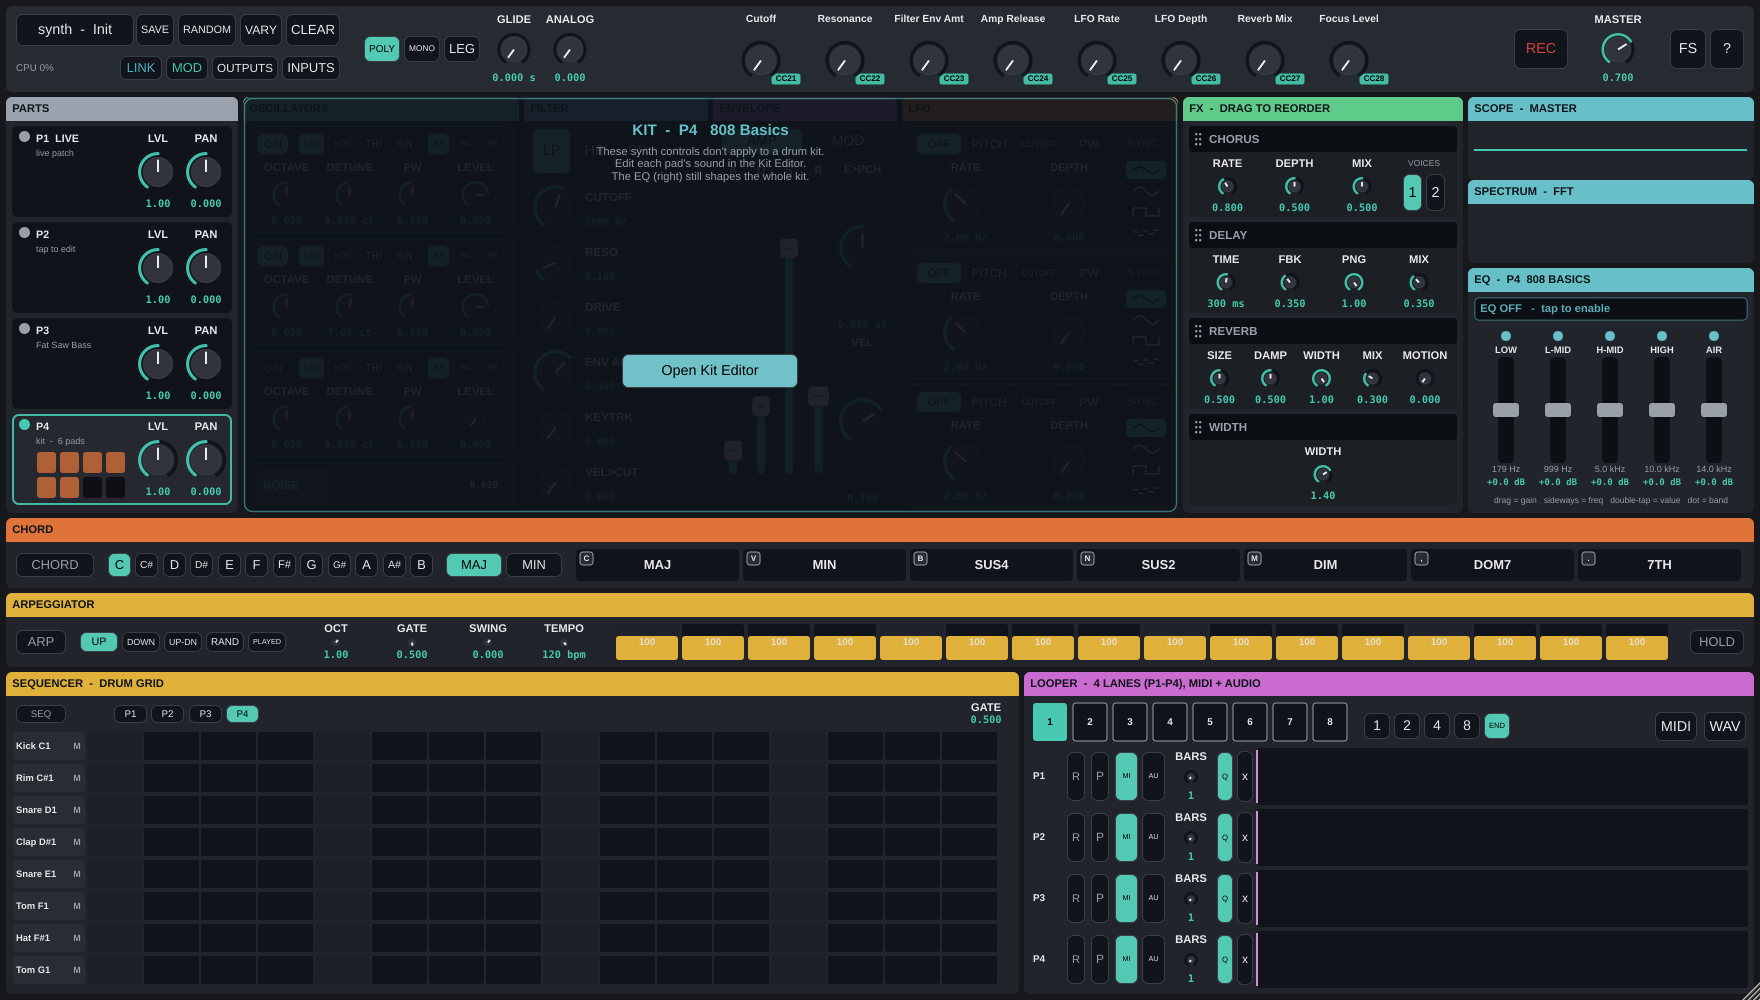
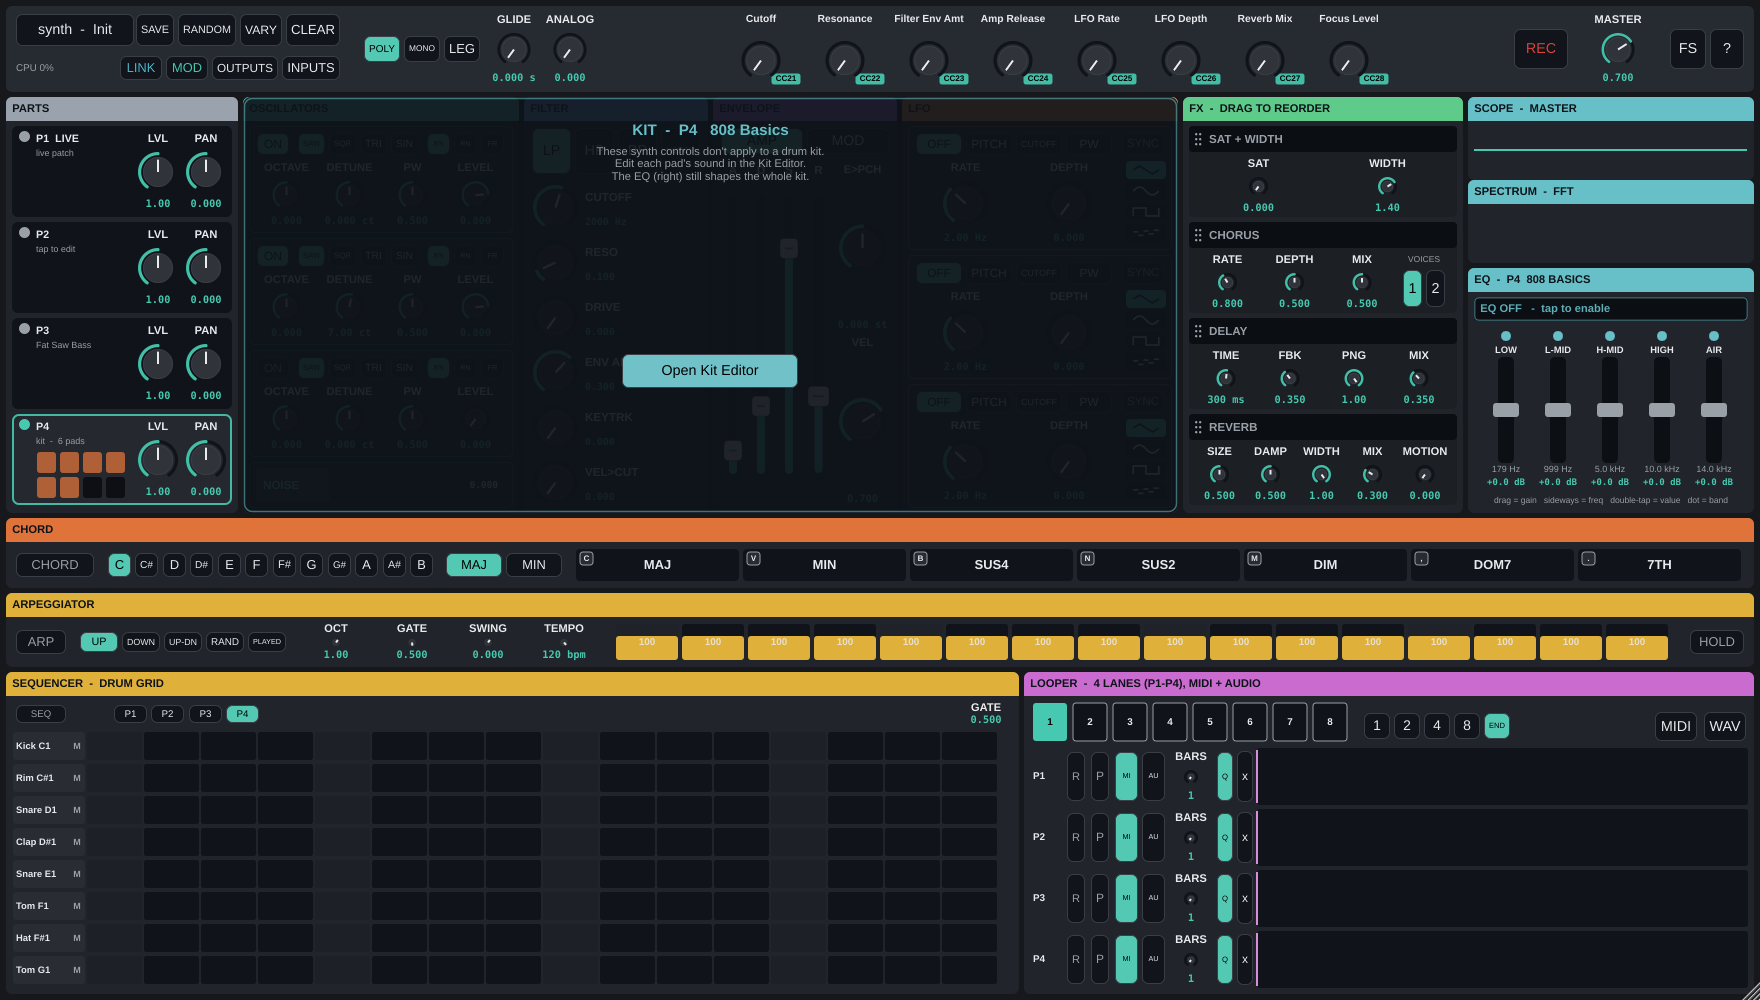
FX SAT (tube saturation) in the SAT+WIDTH block; WIDTH runs first by default
A distortion the user asked for, placed where it belongs. The WIDTH FX block gains
a SAT knob: an asymmetric tube-style waveshaper applied per channel BEFORE the
widening. The pre-bias into tanh makes the curve asymmetric -> EVEN harmonics (the
"tube" colour the symmetric filter DRIVE doesn't give; measured ~13% 2nd harmonic
at full drive), and a one-pole DC blocker removes the offset the asymmetry creates.
Named SAT (distinct from the filter panel's DRIVE, which is a separate in-loop
saturation); the block is relabelled "SAT + WIDTH".

Distortion belongs EARLY (drive the dry signal, not the reverb tail), so the WIDTH
block is now the FIRST default FX block: spatialize + saturate the dry signal, then
delay/reverb bloom over the wide field. The chain stays drag-reorderable, so the old
order is one drag away.

- DSP (StereoWidth.h): saturate() = asymmetric satTanh (cheap clamped Pade[3/2], no
  libm in the loop) + DC blocker, crossfaded in by a smoothed smSat. sat == 0 is the
  exact original signal (goldens bit-identical); engaging crossfades click-free.
- Param fx_sat (0..1, default 0); a full block-tier mod destination (Saturation) so
  an LFO can lean on the saturation; snapshot + bake + mod() wired.
- Default order: kDefaultOrderPacked + Init + the two factory presets that declared
  the old default [0,1,2,3] now use WIDTH-first [3,0,1,2] (EQ still last).
- UI: SAT knob in the "SAT + WIDTH" block with a "tube-style saturation, applied
[…]

Changed region(s): [[0.6875, 0.124, 0.8125, 0.496]]

diff --git a/Source/DSP/StereoWidth.h b/Source/DSP/StereoWidth.h
@@ -1,6 +1,7 @@
 #pragma once
 #include <algorithm>
 #include <array>
+#include <cmath>
 
 // ============================================================================
 // Stereo width (mid/side) with mono-safe widening. Hand-rolled, JUCE-free,
@@ -35,19 +36,38 @@ public:
     void reset()
     {
         smWidth = width;
+        smSat = sat;
         for (auto& s : ap) { s.x1 = 0.0f; s.y1 = 0.0f; }
+        for (auto& d : dc)  { d.x1 = 0.0f; d.y1 = 0.0f; }
     }
 
     // 0 = mono, 1 = unchanged, 2 = maximally wide (synthesized side at full gain).
     void setWidth (float w) { width = std::clamp (w, 0.0f, 2.0f); }
+
+    // SAT (Tier 4c follow-on): asymmetric tube-style saturation, applied per channel BEFORE
+    // the widening. 0 = clean (bit-exact bypass). The asymmetry (a small pre-bias into tanh)
+    // adds EVEN harmonics — the "tube" colour the symmetric filter DRIVE doesn't give — and a
+    // one-pole DC blocker removes the offset that asymmetry produces.
+    void setSat (float s01) { sat = std::clamp (s01, 0.0f, 1.0f); }
 
     void process (float* left, float* right, int numSamples)
     {
         for (int i = 0; i < numSamples; ++i)
         {
             smWidth += kSmoothCoef * (width - smWidth);
-            const float mid  = 0.5f * (left[i] + right[i]);
-            const float side = 0.5f * (left[i] - right[i]);
+            smSat   += kSmoothCoef * (sat   - smSat);       // zipper-safe drive engage
+
+            // Saturate each channel first (drive -> then widen). smSat 0 keeps the exact
+            // original signal (goldens bit-identical); the crossfade makes engaging click-free.
+            float l = left[i], r = right[i];
+            if (smSat > 1.0e-6f)
+            {
+                l = saturate (l, dc[0]);
+                r = saturate (r, dc[1]);
+            }
+
+            const float mid  = 0.5f * (l + r);
+            const float side = 0.5f * (l - r);
 
             // Decorrelate the mid through the allpass cascade (state runs always).
             float decorr = mid;
@@ -66,11 +86,40 @@ public:
 
     // For the reorder crossfade: adopt another instance's smoothing + filter state
     // so the freshly-activated chain copy continues seamlessly.
-    void copyStateFrom (const StereoWidth& other) { smWidth = other.smWidth; ap = other.ap; }
+    void copyStateFrom (const StereoWidth& other) { smWidth = other.smWidth; ap = other.ap; smSat = other.smSat; dc = other.dc; }
 
 private:
     static constexpr float kSmoothCoef = 0.002f;   // ~one-pole knob smoothing
     static constexpr float kDecorrGain = 0.9f;     // synthesized-side level at width = 2
+
+    // Asymmetric tube shaper. driveGain scales with smSat; the pre-bias makes the tanh
+    // asymmetric (even harmonics); the result is DC-blocked, then crossfaded in by smSat so
+    // engaging is click-free and smSat 0 is a true bypass.
+    // Cheap tanh (clamped Padé[3/2]) — no libm call in the audio loop; saturates hard past ±3.
+    static float satTanh (float x)
+    {
+        if (x >  3.0f) return  1.0f;
+        if (x < -3.0f) return -1.0f;
+        const float x2 = x * x;
+        return x * (27.0f + x2) / (27.0f + 9.0f * x2);
+    }
+
+    struct DCBlock { float x1 = 0.0f, y1 = 0.0f; };
+    float saturate (float x, DCBlock& d) const
+    {
+        const float driveGain = 1.0f + smSat * (kMaxSat - 1.0f);
+        float sh = satTanh (driveGain * x + kBias) - kTanhBias;     // asymmetric -> even harmonics
+        sh *= kMakeup;
+        const float y = sh - d.x1 + kDcR * d.y1;                    // one-pole DC blocker (~4 Hz)
+        d.x1 = sh; d.y1 = y;
+        return x * (1.0f - smSat) + y * smSat;                      // clean -> saturated crossfade
+    }
+
+    static constexpr float kMaxSat   = 8.0f;        // drive gain at sat = 1
+    static constexpr float kBias     = 0.60f;       // tube asymmetry (even-harmonic amount)
+    static constexpr float kTanhBias = 0.54285714f; // satTanh(0.60) — removes the static offset (x=0 -> 0)
+    static constexpr float kMakeup   = 0.80f;       // level trim; the output safety clipper backstops
+    static constexpr float kDcR      = 0.9995f;     // DC-blocker pole
 
     // First-order Schroeder allpass: H(z) = (a + z^-1) / (1 + a z^-1).
     struct Allpass
@@ -90,4 +139,7 @@ private:
 
     float width   = 1.0f;
     float smWidth = 1.0f;
+    float sat     = 0.0f;
+    float smSat   = 0.0f;
+    std::array<DCBlock, 2> dc {};   // per-channel DC blocker state (L, R)
 };

diff --git a/tests/dsp/test_fx.cpp b/tests/dsp/test_fx.cpp
@@ -83,6 +83,65 @@ namespace
     }
 }
 
+// Tier 4c follow-on — FX SAT: asymmetric tube saturation in the WIDTH block.
+TEST_CASE ("StereoWidth SAT: asymmetric drive adds even harmonics, DC-safe, sat=0 bit-identical, click-safe", "[6b][fx][width][sat]")
+{
+    const int N = 16384;
+
+    auto magAt = [] (const std::vector<float>& x, std::size_t start, int fftN, double sr, double hz)
+    {
+        std::vector<float> w = tu::slice (x, start, (std::size_t) fftN);
+        tu::blackmanHarris (w);
+        std::vector<std::complex<double>> a ((std::size_t) fftN);
+        for (int i = 0; i < fftN; ++i) a[(std::size_t) i] = { (double) w[(std::size_t) i], 0.0 };
+        tu::fft (a);
+        const int bin = std::clamp ((int) std::lround (hz * fftN / sr), 0, fftN / 2);
+        return std::abs (a[(std::size_t) bin]);
+    };
+
+    SECTION ("sat=0 is bit-identical to the no-sat path")
+    {
+        std::vector<float> L (N), R (N); fillMonoSine (L, R, 220.0);
+        std::vector<float> la = L, ra = R, lb = L, rb = R;
+        StereoWidth a; a.prepare (kSR); a.setWidth (1.5f); a.setSat (0.0f); a.reset();
+        StereoWidth b; b.prepare (kSR); b.setWidth (1.5f);                 b.reset();   // sat defaults 0
+        for (int i = 0; i < N; i += kBlock) { a.process (la.data()+i, ra.data()+i, kBlock); b.process (lb.data()+i, rb.data()+i, kBlock); }
+        REQUIRE (la == lb); REQUIRE (ra == rb);
+    }
+
+    SECTION ("full SAT adds even harmonics (tube colour) and blocks DC")
+    {
+        std::vector<float> L (N), R (N); fillMonoSine (L, R, 300.0, 0.5f);
+        StereoWidth fx; fx.prepare (kSR); fx.setWidth (1.0f); fx.setSat (1.0f); fx.reset();   // width=1: measure the shaper alone
+        for (int i = 0; i < N; i += kBlock) fx.process (L.data()+i, R.data()+i, kBlock);
+        REQUIRE (tu::allFinite (L));
+
+        const std::size_t s = (std::size_t) (N / 2);
+        const double fund = magAt (L, s, 8192, kSR, 300.0);
+        const double h2   = magAt (L, s, 8192, kSR, 600.0);   // even
+        const double h3   = magAt (L, s, 8192, kSR, 900.0);   // odd
+        const double dc   = magAt (L, s, 8192, kSR, 0.0);
+        INFO ("fund=" << fund << " h2(even)=" << h2 << " h3(odd)=" << h3 << " dc=" << dc);
+        REQUIRE (h2 > 0.10 * fund);     // asymmetry => a real 2nd harmonic (a symmetric shaper gives ~0)
+        REQUIRE (h2 > 0.3 * h3);        // even harmonics are a major component, not a trace (tube colour)
+        REQUIRE (dc < 0.01 * fund);     // the DC blocker removes the offset asymmetry creates
+    }
+
+    SECTION ("sweeping SAT live is click-free")
+    {
+        std::vector<float> L (N), R (N); fillMonoSine (L, R, 220.0);
+        std::vector<float> ls = L, rs = R;   // FULL-sat steady baseline (saturation legitimately raises
+        { StereoWidth s; s.prepare (kSR); s.setWidth (1.3f); s.setSat (1.0f); s.reset();   // max-delta via harmonics)
+          for (int i = 0; i < N; i += kBlock) s.process (ls.data()+i, rs.data()+i, kBlock); }
+
+        std::vector<float> l = L, r = R;      // ramp sat 0 -> 1: max-delta must not EXCEED the steady full-sat
+        StereoWidth fx; fx.prepare (kSR); fx.setWidth (1.3f); fx.reset();
+        for (int i = 0; i < N; i += kBlock) { fx.setSat ((float) i / (float) N); fx.process (l.data()+i, r.data()+i, kBlock); }
+        REQUIRE (tu::allFinite (l));
+        REQUIRE (tu::maxDelta (l) < tu::maxDelta (ls) * 1.3f + 1.0e-3f);   // a sweep click would spike past full-sat
+    }
+}
+
 TEST_CASE ("StereoWidth: width>1 widens a DRY MONO source, mono-safe", "[6b][fx][width]")
 {
     const int N = 8192;

diff --git a/Source/PluginProcessor.cpp b/Source/PluginProcessor.cpp
@@ -144,7 +144,7 @@ void VASynthProcessor::loadInitPreset()
     // Init resets the focused part's SOUND to defaults but keeps ALL global performance
     // state (sequencer, looper, tempo, macros, mixer, master, ...) and the other parts put.
     applyFocusedPartSound (juce::ValueTree());             // invalid tree -> Init baseline sound
-    const int def[kFxCount] { 0, 1, 2, 3, 4 };
+    const int def[kFxCount] { 3, 0, 1, 2, 4 };   // WIDTH (+SAT) first, EQ last
     setFxOrder (def);
 }
 
@@ -401,7 +401,7 @@ static const juce::StringArray& perPartSoundIds()
         ID::chorusRate, ID::chorusDepth, ID::chorusMix, ID::chorusVoices, ID::fxChorusOn,
         ID::delayTime, ID::delayFeedback, ID::delayMix, ID::delaySpread, ID::fxDelayOn,
         ID::reverbSize, ID::reverbDamp, ID::reverbWidth, ID::reverbMix, ID::reverbMotion, ID::fxReverbOn,
-        ID::stereoWidth, ID::fxWidthOn,
+        ID::stereoWidth, ID::fxSat, ID::fxWidthOn,
         ID::peqOn, ID::peqB1Freq, ID::peqB1Gain, ID::peqB1Q, ID::peqB1On,
         ID::peqB2Freq, ID::peqB2Gain, ID::peqB2Q, ID::peqB2On,
         ID::peqB3Freq, ID::peqB3Gain, ID::peqB3Q, ID::peqB3On,
@@ -704,6 +704,7 @@ static FXParams fxParamsFrom (const juce::AudioProcessorValueTreeState& src)
     p.reverbWidth = rp (src, ID::reverbWidth); p.reverbMix = rp (src, ID::reverbMix);
     p.reverbMotion = rp (src, ID::reverbMotion);
     p.width = rp (src, ID::stereoWidth);
+    p.sat   = rp (src, ID::fxSat);
     p.eqBand1 = { rp (src, ID::peqB1Freq), rp (src, ID::peqB1Gain), rp (src, ID::peqB1Q), rp (src, ID::peqB1On) > 0.5f };
     p.eqBand2 = { rp (src, ID::peqB2Freq), rp (src, ID::peqB2Gain), rp (src, ID::peqB2Q), rp (src, ID::peqB2On) > 0.5f };
     p.eqBand3 = { rp (src, ID::peqB3Freq), rp (src, ID::peqB3Gain), rp (src, ID::peqB3Q), rp (src, ID::peqB3On) > 0.5f };
@@ -1607,6 +1608,7 @@ void VASynthProcessor::applyBlockMods (int part, VoiceParams& vp, FXParams& fx, 
     mod (ModMatrix::ReverbMix,     ID::reverbMix,     fx.reverbMix);
     mod (ModMatrix::ReverbMotion,  ID::reverbMotion,  fx.reverbMotion);
     mod (ModMatrix::StereoWidth,   ID::stereoWidth,   fx.width);
+    mod (ModMatrix::Saturation,    ID::fxSat,         fx.sat);
     mod (ModMatrix::EqB1Gain,      ID::peqB1Gain,     fx.eqBand1.gainDb);
     mod (ModMatrix::EqB2Gain,      ID::peqB2Gain,     fx.eqBand2.gainDb);
     mod (ModMatrix::EqB3Gain,      ID::peqB3Gain,     fx.eqBand3.gainDb);
@@ -1691,6 +1693,7 @@ FXParams VASynthProcessor::snapshotFXParams() const
     p.reverbMotion = rp (apvts, ID::reverbMotion);
 
     p.width = rp (apvts, ID::stereoWidth);
+    p.sat   = rp (apvts, ID::fxSat);
 
     // K1: the per-part EQ (fixed last stage). The LIVE part reads it here — this was the
     // missing wiring: snapshotFXParams never carried the EQ, so the live part's EQ did

diff --git a/tests/bench/bench_engine.cpp b/tests/bench/bench_engine.cpp
@@ -67,7 +67,7 @@ namespace
 
     // Full per-block path: engine render (mono) + duplicate to stereo + FX chain,
     // exactly as the processor runs it. `fxMask` bit 0..3 = chorus/delay/reverb/width.
-    Stat measureFull (int voices, int blocks, int oscsOn, int fxMask, float reverbMotion = 0.0f, int chorusVoices = 1)
+    Stat measureFull (int voices, int blocks, int oscsOn, int fxMask, float reverbMotion = 0.0f, int chorusVoices = 1, float sat = 0.0f)
     {
         SynthEngine engine;
         engine.setOscQuality (PolyBlepOscillator::Quality::Efficient);
@@ -91,6 +91,7 @@ namespace
         fp.chorusMix = 0.5f; fp.delayMix = 0.4f; fp.reverbMix = 0.4f; fp.width = 1.5f;
         fp.reverbMotion = reverbMotion;
         fp.chorusVoices = chorusVoices;
+        fp.sat = sat;
         fx.setParams (fp);
 
         std::vector<float> mono (kBlock, 0.0f), L (kBlock, 0.0f), R (kBlock, 0.0f);
@@ -246,6 +247,7 @@ int main()
     row ("+ reverb",            measureFull (12, 4000, 3, 4));
     row ("+ reverb (motion)",   measureFull (12, 4000, 3, 4, 1.0f));   // Tier 4a delta (3 modulated allpass)
     row ("+ width",             measureFull (12, 4000, 3, 8));
+    row ("+ width (SAT)",       measureFull (12, 4000, 3, 8, 0.0f, 1, 1.0f));   // FX SAT delta (tube saturation)
     row ("+ ALL FX",            measureFull (12, 4000, 3, 15));
 
     std::printf ("\n6B full path (16 voices, 3 osc, Efficient + FX):\n");

diff --git a/tests/plugin/test_presets_factory.cpp b/tests/plugin/test_presets_factory.cpp
@@ -75,18 +75,18 @@ TEST_CASE ("loadFactoryPreset applies overrides; Init resets to defaults", "[plu
     REQUIRE (p.apvts.getRawParameterValue ("fx_reverb_on")->load() < 0.5f);   // back to default (off)
     REQUIRE (p.apvts.getRawParameterValue ("amp_attack")->load() == Catch::Approx (0.005f).margin (1e-4));
     int order[5]; p.getFxOrder (order);
-    REQUIRE (order[0] == 0); REQUIRE (order[3] == 3);                          // default chain order
+    REQUIRE (order[0] == 3); REQUIRE (order[1] == 0);                          // default chain order: WIDTH first
 }
 
 TEST_CASE ("a preset with an fxOrder sets the chain order", "[plugin][6d][presets][order]")
 {
     juce::ScopedJuceInitialiser_GUI juceInit;
     VASynthProcessor p;
-    // Warm Pad declares "fxOrder":[0,1,2,3]; load a reordered state first to prove
-    // the preset actively sets it.
+    // Warm Pad declares "fxOrder":[3,0,1,2] (width first); load a reordered state first to
+    // prove the preset actively sets it.
     const int scrambled[5] { 4, 3, 2, 1, 0 };
     p.setFxOrder (scrambled);
     p.loadFactoryPreset ("Warm Pad");
     int order[5]; p.getFxOrder (order);
-    REQUIRE (order[0] == 0); REQUIRE (order[1] == 1); REQUIRE (order[2] == 2); REQUIRE (order[3] == 3);
+    REQUIRE (order[0] == 3); REQUIRE (order[1] == 0); REQUIRE (order[2] == 1); REQUIRE (order[3] == 2);
 }

diff --git a/Source/Parameters.h b/Source/Parameters.h
@@ -141,6 +141,7 @@ namespace ParamID
     inline constexpr auto reverbMotion  = "reverb_motion";   // Tier 4a: slow tail modulation (0 = static)
     inline constexpr auto fxWidthOn     = "fx_width_on";
     inline constexpr auto stereoWidth   = "stereo_width";    // 0=mono, 1=normal, 2=wide
+    inline constexpr auto fxSat         = "fx_sat";          // tube saturation in the width block (0 = clean)
 
     inline constexpr auto fxOrder       = "fx_order";        // state-tree property: "a,b,c,d"
 
@@ -364,6 +365,7 @@ inline juce::AudioProcessorValueTreeState::ParameterLayout createParameterLayout
 
     params.push_back(std::make_unique<Pb>(juce::ParameterID{ID::fxWidthOn, 1},     "Width On", false));
     params.push_back(std::make_unique<P >(juce::ParameterID{ID::stereoWidth, 1},   "Stereo Width", juce::NormalisableRange<float>(0.0f, 2.0f), 1.4f));
+    params.push_back(std::make_unique<P >(juce::ParameterID{ID::fxSat, 1},         "FX Saturation", juce::NormalisableRange<float>(0.0f, 1.0f), 0.0f));
 
     // --- Macros (R2): 8 performance knobs, default 0 (inert; routed in R3) -----
     {

diff --git a/Source/DSP/FXChain.h b/Source/DSP/FXChain.h
@@ -42,6 +42,7 @@ struct FXParams
     float delayTimeMs = 300.0f, delayFeedback = 0.35f, delayMix = 0.35f, delaySpread = 1.0f;
     float reverbSize = 0.5f, reverbDamp = 0.5f, reverbWidth = 1.0f, reverbMix = 0.3f, reverbMotion = 0.0f;
     float width = 1.4f;
+    float sat   = 0.0f;                               // tube saturation in the width block (0 = clean)
     PartEQ::Band eqBand1 { 180.0f,   0.0f, 0.9f };   // per-part EQ, 5 fully parametric bells (fixed last)
     PartEQ::Band eqBand2 { 1000.0f,  0.0f, 0.9f };
     PartEQ::Band eqBand3 { 5000.0f,  0.0f, 0.9f };
@@ -148,6 +149,7 @@ private:
             delay.setParams  (p.delayTimeMs, p.delayFeedback, p.delayMix, p.delaySpread);
             reverb.setParams (p.reverbSize, p.reverbDamp, p.reverbWidth, p.reverbMix, p.reverbMotion);
             width.setWidth   (p.width);
+            width.setSat     (p.sat);
             eq.setBands      (p.eqBand1, p.eqBand2, p.eqBand3, p.eqBand4, p.eqBand5);
         }
         void setConfig (const int ord[kNumFX], const bool en[kNumFX])

diff --git a/Source/UI/FXPanel.h b/Source/UI/FXPanel.h
@@ -90,8 +90,9 @@ private:
               { { ID::reverbSize, "SIZE" }, { ID::reverbDamp, "DAMP" }, { ID::reverbWidth, "WIDTH" },
                 { ID::reverbMix, "MIX" },
                 { ID::reverbMotion, "MOTION", "slow tail modulation: smears the metallic ring so pads swim (0 = static)" } } },
-            { "WIDTH",  juce::Colour (0xfff0a04b), ID::fxWidthOn,
-              { { ID::stereoWidth, "WIDTH" } } },
+            { "SAT + WIDTH", juce::Colour (0xfff0a04b), ID::fxWidthOn,
+              { { ID::fxSat, "SAT", "tube-style saturation, applied before widening" },
+                { ID::stereoWidth, "WIDTH" } } },
         } };
         return d;
     }

diff --git a/Source/UI/HelpOverlay.h b/Source/UI/HelpOverlay.h
@@ -56,6 +56,7 @@ public:
             { "DRIVE knob (filter)", "analog-style saturation in the filter loop; RESO past the top self-oscillates" },
             { "MOTION knob (reverb)", "slow tail modulation: smears the metallic ring so pads swim (0 = static)" },
             { "VOICES 1|2 (chorus)", "2 adds a second decorrelated tap — thicker, wider chorus" },
+            { "SAT knob (FX width)", "tube-style saturation (even harmonics), applied before widening" },
             { "SYNC / DIV (LFO)", "lock the LFO to tempo; DIV sets the note division" },
             { "F11", "fullscreen (standalone)" },
             { "F12", "audio-health debug overlay" },

diff --git a/Source/DSP/ModMatrix.h b/Source/DSP/ModMatrix.h
@@ -74,6 +74,7 @@ public:
                               // (evaluate() fills Offsets.noiseLevel; the voice reads it) — not a block
                               // dest despite its numeric position, so blockOffsets() collects it harmlessly.
                   ReverbMotion, // Tier 4a: reverb tail modulation depth (block-tier, appended).
+                  Saturation,   // FX SAT: tube saturation in the width block (block-tier, appended).
                   kNumDests };
     static constexpr int kFirstBlockDest = ChorusRate;
     static constexpr int kNumBlockDests  = kNumDests - kFirstBlockDest;

diff --git a/Source/ModDestRegistry.h b/Source/ModDestRegistry.h
@@ -89,6 +89,7 @@ namespace moddest
             { ModMatrix::ReverbWidth,  P::reverbWidth,   "Reverb Width",  Fx },
             { ModMatrix::ReverbMix,    P::reverbMix,     "Reverb Mix",    Fx },
             { ModMatrix::ReverbMotion, P::reverbMotion,  "Reverb Motion", Fx },
+            { ModMatrix::Saturation,   P::fxSat,         "Saturation",    Fx },
             { ModMatrix::StereoWidth,  P::stereoWidth,   "Stereo Width",  Fx },
             { ModMatrix::EqB1Gain,     P::peqB1Gain,     "EQ Low Gain",    Fx },
             { ModMatrix::EqB2Gain,     P::peqB2Gain,     "EQ L-Mid Gain",  Fx },

diff --git a/tests/plugin/test_fx_plugin.cpp b/tests/plugin/test_fx_plugin.cpp
@@ -53,8 +53,9 @@ TEST_CASE ("fx_order: setFxOrder round-trips a permutation and rejects invalid i
     juce::ScopedJuceInitialiser_GUI juceInit;
     VASynthProcessor p;
 
-    int def[5]; p.getFxOrder (def);             // 5 blocks now (chorus/delay/reverb/width/EQ)
-    for (int i = 0; i < 5; ++i) REQUIRE (def[i] == i);
+    int def[5]; p.getFxOrder (def);             // default: WIDTH first {3,0,1,2}, EQ last (4)
+    const int expectDef[5] { 3, 0, 1, 2, 4 };
+    for (int i = 0; i < 5; ++i) REQUIRE (def[i] == expectDef[i]);
 
     const int good[5] { 4, 3, 2, 1, 0 };
     p.setFxOrder (good);
